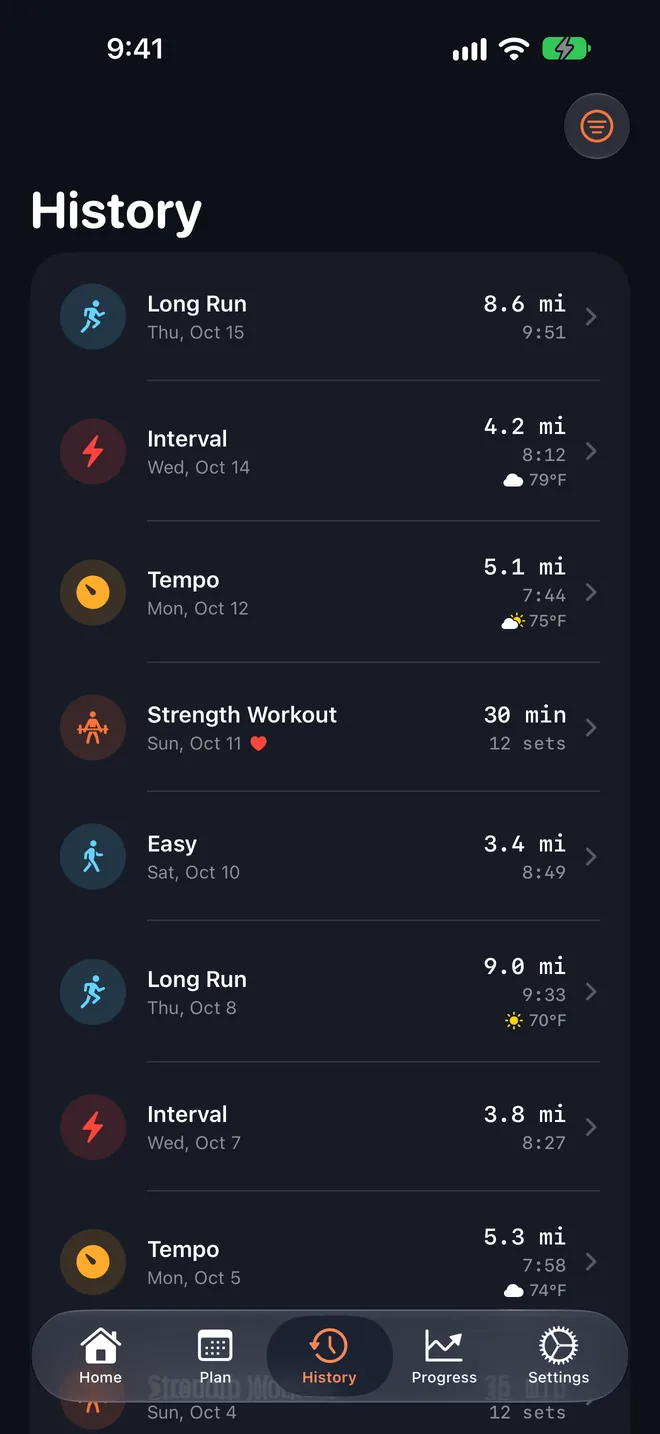
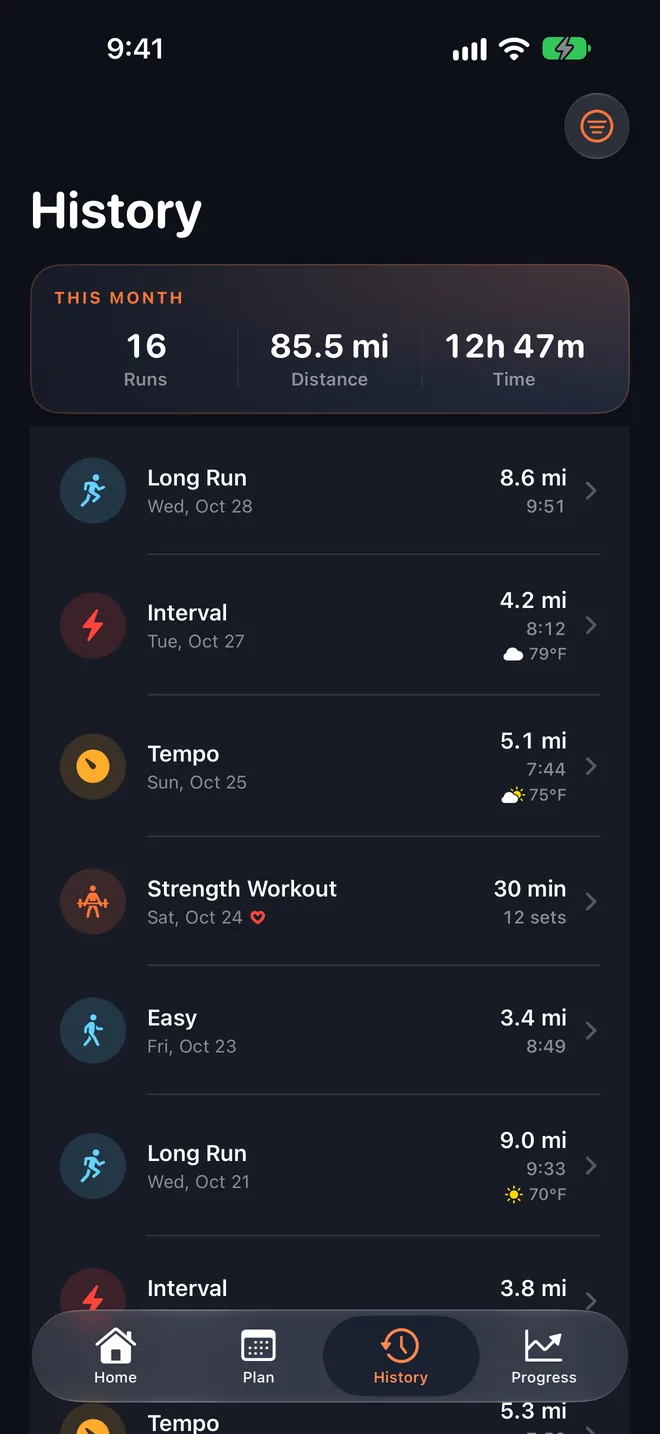
Stride page: use the latest App Store screenshots
Home, Plan, History and Progress now come from the App Store screenshots
workflow (running-app run 40889997806, iphone-raw), resized to 660x1434
WebP. Alt text updated to match what each screen now shows.

Claude-Session: https://claude.ai/code/session_01FZXa7pEvKSEKwzbJQ2FpJw

diff --git a/public/stride/index.html b/public/stride/index.html
@@ -342,7 +342,7 @@
           </g>
         </svg>
         <div class="phone">
-          <img src="/stride/img/home.webp" width="660" height="1434" alt="Stride's Home tab: this week's distance and runs, today's plan, the next session with its target pace, and a coach tip." fetchpriority="high">
+          <img src="/stride/img/home.webp" width="660" height="1434" alt="Stride's Home tab: a week calendar, today's plan with buttons to start a free run or plan a route, the next tempo session with its target pace, this week's miles and runs, and a coach tip." fetchpriority="high">
         </div>
       </div>
     </div>
@@ -389,7 +389,7 @@
           </ul>
         </div>
         <div class="shot">
-          <div class="phone"><img src="/stride/img/plan.webp" width="660" height="1434" loading="lazy" alt="Stride's Plan tab: a 5K plan with its base, build, peak and taper phases, the race countdown and the estimated finish time."></div>
+          <div class="phone"><img src="/stride/img/plan.webp" width="660" height="1434" loading="lazy" alt="Stride's Plan tab: a 5K race 53 days away with a 26:23 goal, an 8-week plan across base, build, peak and taper, pace and race insights, and the training weeks."></div>
         </div>
       </div>
 
@@ -405,7 +405,7 @@
           </ul>
         </div>
         <div class="shot">
-          <div class="phone"><img src="/stride/img/history.webp" width="660" height="1434" loading="lazy" alt="Stride's History tab: a list of long runs, intervals, tempo runs and a strength workout with distance, pace and weather."></div>
+          <div class="phone"><img src="/stride/img/history.webp" width="660" height="1434" loading="lazy" alt="Stride's History tab: this month's 16 runs and 85.5 miles, then a list of long runs, intervals, tempo, easy runs and a strength workout with distance, pace and weather."></div>
         </div>
       </div>
 
@@ -420,7 +420,7 @@
           </ul>
         </div>
         <div class="shot">
-          <div class="phone"><img src="/stride/img/progress.webp" width="660" height="1434" loading="lazy" alt="Stride's Progress tab: 43 runs, 227 miles, VDOT 38, and a weekly volume chart over three months."></div>
+          <div class="phone"><img src="/stride/img/progress.webp" width="660" height="1434" loading="lazy" alt="Stride's Progress tab: 43 runs, 227 miles and VDOT 38 over three months, a weekly volume chart, and an easy pace chart showing 25 seconds per mile faster."></div>
         </div>
       </div>
     </div>
